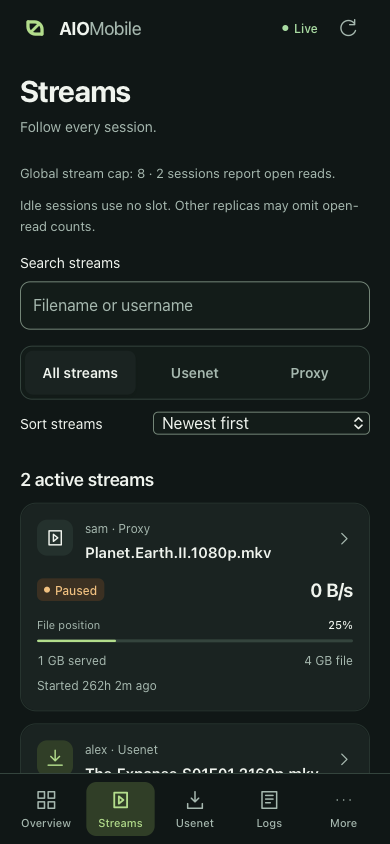
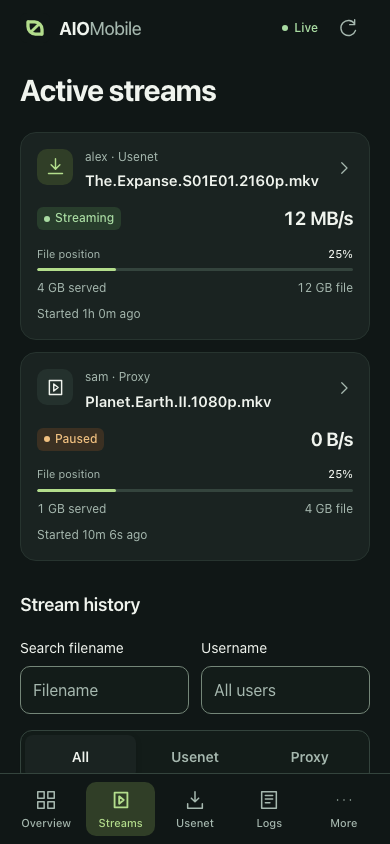
Refresh README screenshots from current mobile UI

diff --git a/tests/e2e/readme-screenshots.spec.ts b/tests/e2e/readme-screenshots.spec.ts
@@ -1,0 +1,33 @@
+import { test, expect } from '@playwright/test';
+import { mkdir } from 'node:fs/promises';
+
+test('capture current README screens with synthetic data', async ({ page, context }) => {
+  test.setTimeout(60000);
+  await context.request.get('/fixture/login');
+  await page.clock.install({ time: 1791043200000 });
+  await page.goto('/mobile/');
+  await page.setViewportSize({ width: 390, height: 844 });
+  await mkdir('docs/screenshots/readme', { recursive: true });
+  for (const [name, route, theme] of [
+    ['overview', 'overview', 'sage'], ['streams', 'streams', 'sage'],
+    ['usenet', 'usenet', 'sage'], ['logs', 'logs', 'sage'],
+    ['settings', 'settings', 'paper'], ['history', 'history', 'sage'],
+    ['recorded-activity', 'usenet', 'paper'], ['server-version', 'overview', 'sage'],
+  ]) {
+    await page.evaluate(theme => localStorage.setItem('aiomobile.preferences', JSON.stringify({ theme, reducedMotion: true })), theme);
+    await page.goto(`/mobile/#${route}`);
+    await page.reload();
+    await expect(page.locator("html")).toHaveAttribute("data-theme", theme);
+    await expect(page.locator('h1')).toBeVisible();
+    await expect(page.locator('.skeletons')).toHaveCount(0);
+    await page.waitForTimeout(3200);
+    if (name === 'overview') await expect(page.locator('.summary-reading strong').first()).toHaveText('2');
+    if (name === 'recorded-activity') await page.locator('.usenet-history').evaluate(node => window.scrollTo(0, node.getBoundingClientRect().top + scrollY - 70));
+    if (name === 'server-version') {
+      await page.locator('.server-version').getByText('Build & updates', { exact: true }).click();
+      await page.locator('.server-version').scrollIntoViewIfNeeded();
+    }
+    expect(await page.evaluate(() => document.documentElement.scrollWidth <= innerWidth)).toBe(true);
+    await page.screenshot({ path: `docs/screenshots/readme/${name}.png`, scale: 'css' });
+  }
+});

diff --git a/README.md b/README.md
@@ -8,11 +8,11 @@ The current build, `76ab7650f7558608` (2026-10-29), adds Overview section visibi
 
 ## Screenshots
 
-Screenshots use synthetic demo data; some captures predate the latest layout refinements. The header icon follows the selected theme.
+Screenshots captured from the current UI on October 29, 2026, using synthetic demo data. The header icon follows the selected theme.
 
 | Overview · Sage | Streams · Sage | Usenet · Sage |
 | :---: | :---: | :---: |
-| <img src="docs/screenshots/readme/overview.png" width="240" alt="Overview with live activity and active streams in the Sage theme"> | <img src="docs/screenshots/readme/streams.png" width="240" alt="Active streams with search, filters, stream capacity and file position in the Sage theme"> | <img src="docs/screenshots/readme/usenet.png" width="240" alt="Usenet live throughput, recorded activity and provider history in the Sage theme"> |
+| <img src="docs/screenshots/readme/overview.png" width="240" alt="Overview with live activity and active streams in the Sage theme"> | <img src="docs/screenshots/readme/streams.png" width="240" alt="Current stream sessions with file position, followed by searchable stream history in the Sage theme"> | <img src="docs/screenshots/readme/usenet.png" width="240" alt="Usenet live throughput, recorded activity and provider history in the Sage theme"> |
 
 <details>
 <summary>More screens and themes</summary>
